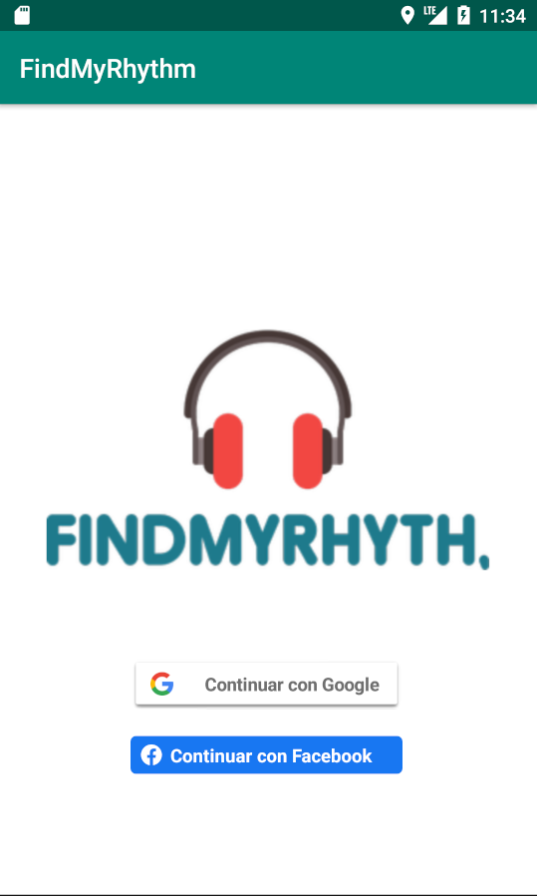
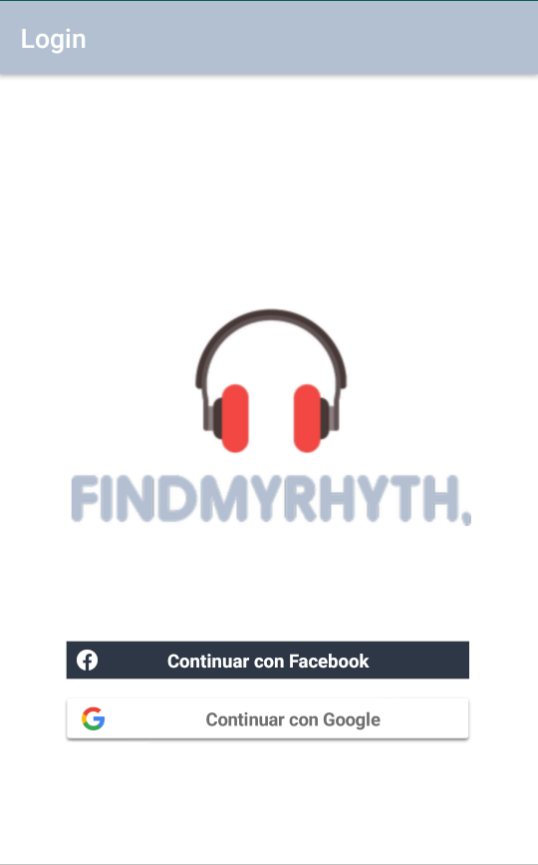
Cambios UIs Login

diff --git a/APP/app/src/main/java/com/example/findmyrhythm/Login.java b/APP/app/src/main/java/com/example/findmyrhythm/Login.java
@@ -49,6 +49,7 @@ public class Login extends AppCompatActivity implements View.OnClickListener{
         super.onCreate(savedInstanceState);
         //Layout
         setContentView(R.layout.activity_main);
+        setTitle(R.string.titleLogin);
         Toolbar toolbar = findViewById(R.id.toolbar);
         setSupportActionBar(toolbar);
 
@@ -107,6 +108,7 @@ public class Login extends AppCompatActivity implements View.OnClickListener{
     }
 
     public void  updateUI(FirebaseUser user){
+
 
     }
     @Override

diff --git a/APP/app/src/main/java/com/example/findmyrhythm/OrgProfile.java b/APP/app/src/main/java/com/example/findmyrhythm/OrgProfile.java
@@ -1,0 +1,14 @@
+package com.example.findmyrhythm;
+
+import androidx.appcompat.app.AppCompatActivity;
+
+import android.os.Bundle;
+
+public class OrgProfile extends AppCompatActivity {
+
+    @Override
+    protected void onCreate(Bundle savedInstanceState) {
+        super.onCreate(savedInstanceState);
+        setContentView(R.layout.activity_org_profile);
+    }
+}
